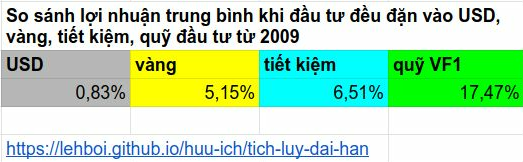
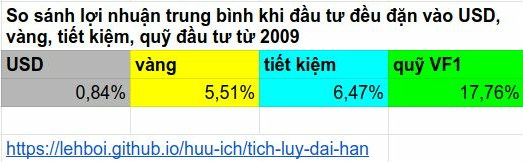
update prices

diff --git a/huu-ich/dau-tu-co-phieu/so-tk-hay-dau-tu.html b/huu-ich/dau-tu-co-phieu/so-tk-hay-dau-tu.html
@@ -2,7 +2,7 @@
 <html amp lang="vi">
 <head>
 <title>Sổ tiết kiệm hay Quỹ đầu tư tốt hơn?</title>
-<meta name="description" content="So sánh tiền lời giữa vàng, USD, sổ tiết kiệm và quỹ đầu tư trong 12 năm qua" />
+<meta name="description" content="So sánh tiền lời giữa vàng, USD, sổ tiết kiệm và quỹ đầu tư trong 13 năm qua" />
 <meta name="keywords" content="hữu ích, tài chính, cá nhân, tiết kiệm, đầu tư, lợi nhuận, IRR">
 <link rel="alternate" href="https://www.lhboi.name.vn/huu-ich/dau-tu-co-phieu/so-tk-hay-dau-tu">
 <link rel="canonical" href="https://lehboi.github.io/huu-ich/dau-tu-co-phieu/so-tk-hay-dau-tu">
@@ -259,26 +259,26 @@ data-ad-slot="5275186684">
   <p>(Đừng mua vàng hay USD để dành, lý do được giải thích trong <a href="#goldusd">phần cuối</a> của bài này.)</p>
   <p>Các nhà kinh tế nói rằng đầu tư dài hạn vào quỹ đầu tư sẽ có lợi hơn gửi tiết kiệm ở ngân hàng. Lý thuyết đó có đúng trong thực tế không, và nhất là có đúng với thị trường Việt Nam không?</p>
   <h2>Kết quả thực tế</h2>
-  <p>Trong bài này, tôi sẽ so sánh kết quả giữa hai phương tiện trên bằng những tính toán trên những số liệu thực tế trong một thời gian dài hơn 12 năm.
-  <br>Thời điểm bắt đầu tính là đầu năm 2009. Từ ngày đó đến ngày 02/12/2021 <!-- Chung!A3 -->
- là hơn 12 năm.</p>
-  <p>Giả sử anh A tích luỹ tiền bằng cách gửi tiết kiệm ở ngân hàng. Bắt đầu từ đầu năm 2009, mỗi bốn tuần (mỗi năm 13 lần ứng với 13 tháng lương) anh A gửi một triệu đồng vào một sổ tiết kiệm kỳ hạn 12 tháng ở Ngân hàng Ngoại thương Việt Nam, khi đáo hạn sổ đó thì nhập lãi vào gốc để gửi tiếp kỳ mới. Số tiền anh A đã gửi vào là 169 <!-- tiết!B2 -->
- triệu đồng. Vào ngày 02/12/2021 <!-- tiết!A2 -->
- tổng giá trị gốc và lãi là <b> 261,139 <!-- tiết!C2 -->
- triệu đồng</b>, tính ra lợi nhuận trung bình của việc tích luỹ này là <b> 6,51%/năm <!-- tiết!C1 -->
+  <p>Trong bài này, tôi sẽ so sánh kết quả giữa hai phương tiện trên bằng những tính toán trên những số liệu thực tế trong một thời gian dài hơn 13 năm.
+  <br>Thời điểm bắt đầu tính là đầu năm 2009. Từ ngày đó đến ngày 30/12/2021 <!-- Chung!A3 -->
+ là hơn 13 năm.</p>
+  <p>Giả sử anh A tích luỹ tiền bằng cách gửi tiết kiệm ở ngân hàng. Bắt đầu từ đầu năm 2009, mỗi bốn tuần (mỗi năm 13 lần ứng với 13 tháng lương) anh A gửi một triệu đồng vào một sổ tiết kiệm kỳ hạn 12 tháng ở Ngân hàng Ngoại thương Việt Nam, khi đáo hạn sổ đó thì nhập lãi vào gốc để gửi tiếp kỳ mới. Số tiền anh A đã gửi vào là 170 <!-- tiết!B2 -->
+ triệu đồng. Vào ngày 30/12/2021 <!-- tiết!A2 -->
+ tổng giá trị gốc và lãi là <b> 262,761 <!-- tiết!C2 -->
+ triệu đồng</b>, tính ra lợi nhuận trung bình của việc tích luỹ này là <b> 6,47%/năm <!-- tiết!C1 -->
 
-</b>. Mặc dù trong 12 năm qua có những lúc lãi suất tiết kiệm lên đến 14%/năm, nhưng do anh A gửi góp theo thời gian nên những khoản tiền gửi trễ sinh ra ít tiền lãi hơn những khoản tiền gửi sớm. Lợi nhuận trung bình đó đang giảm dần vì lãi suất tiết kiệm đã thấp hơn số trung bình đó từ bảy năm nay. Số liệu tính toán <a href="https://docs.google.com/spreadsheets/d/1br9PAhnFj5H2_XtqKL-8MjcCWTU3JP4WGf7guHMdcGo/edit#gid=1998350075" target='_blank'>trong bảng tính này</a>.</p>
+</b>. Mặc dù trong 13 năm qua có những lúc lãi suất tiết kiệm lên đến 14%/năm, nhưng do anh A gửi góp theo thời gian nên những khoản tiền gửi trễ sinh ra ít tiền lãi hơn những khoản tiền gửi sớm. Lợi nhuận trung bình đó đang giảm dần vì lãi suất tiết kiệm đã thấp hơn số trung bình đó từ bảy năm nay. Số liệu tính toán <a href="https://docs.google.com/spreadsheets/d/1br9PAhnFj5H2_XtqKL-8MjcCWTU3JP4WGf7guHMdcGo/edit#gid=1998350075" target='_blank'>trong bảng tính này</a>.</p>
 
-  <p>Giả sử anh B tích luỹ tiền bằng quĩ đầu tư VF1. Bắt đầu từ đầu năm 2009 mỗi bốn tuần anh B gửi một triệu đồng vào quỹ <b>VF1</b>. Số tiền anh B đã gửi vào cũng là 169 <!-- tiết!B2 -->
- triệu đồng như anh A. Vào ngày 02/12/2021 <!-- Chung!A3 -->
- giá trị tài khoản đầu tư của anh B là <b> 593,209 <!-- DCDS!J4 -->
- triệu đồng</b>. Lợi nhuận trung bình của việc tích luỹ này là <span class="red"><b> 18,00%/năm <!-- DCDS!J2 -->
+  <p>Giả sử anh B tích luỹ tiền bằng quĩ đầu tư VF1. Bắt đầu từ đầu năm 2009 mỗi bốn tuần anh B gửi một triệu đồng vào quỹ <b>VF1</b>. Số tiền anh B đã gửi vào cũng là 170 <!-- tiết!B2 -->
+ triệu đồng như anh A. Vào ngày 30/12/2021 <!-- Chung!A3 -->
+ giá trị tài khoản đầu tư của anh B là <b> 591,117 <!-- DCDS!J4 -->
+ triệu đồng</b>. Lợi nhuận trung bình của việc tích luỹ này là <span class="red"><b> 17,76%/năm <!-- DCDS!J2 -->
  </b></span>.</p>
 
   <p>Bảng dưới đây cho biết lợi nhuận trung bình của mọi khoản đầu tư đều đặn vào những quỹ đầu tư trong 10/5/3/2/1 năm qua.</p>
   <div><amp-img alt="Kết quả đầu tư đều đặn" src="/data/VFM.png" height="281" width="565" layout="responsive"></amp-img></a></div>
 
-  <p>Trong thực tế thì số tiền anh A có chắc chắn phải thấp hơn 261,139 <!-- tiết!C2 -->
+  <p>Trong thực tế thì số tiền anh A có chắc chắn phải thấp hơn 262,761 <!-- tiết!C2 -->
  triệu đồng vì:</p>
   <ol>
     <li>Tiền lãi khi đáo hạn sẽ bị làm tròn xuống đến hàng ngàn, và những tiền lẻ dưới chục ngàn hoặc trăm ngàn sẽ không được nhập vào gốc để sinh lời tiếp vì anh A thấy nó lẻ.</li>
@@ -286,7 +286,7 @@ data-ad-slot="5275186684">
     <li>Không dễ để nhớ gửi tiền tiết kiệm đều đặn nhưng lại rất dễ để rút tiền ra dùng khi cần mua sắm iPhone, LED TV, scooter làm cho số tiền bị hao hụt nhiều.</li>
   </ol>
 
-  <p>Ngoài ra, khi gửi ngân hàng kiểu đó thì anh A phải giữ từ 14 đến 169 <!-- tiết!B2 -->
+  <p>Ngoài ra, khi gửi ngân hàng kiểu đó thì anh A phải giữ từ 14 đến 170 <!-- tiết!B2 -->
  sổ tiết kiệm. Có thời gian tôi cũng làm như vậy (online) và tôi cảm thấy vô cùng lúng túng với hàng loạt con số trên màn hình. Trong khi đó đầu tư vào quỹ đầu tư thì mỗi người chỉ cần biết một vài con số.
   <br>Ngân hàng cũng có một loại tiết kiệm mà không tạo ra nhiều sổ, đó là tiết kiệm gửi góp. Tôi khuyên các bạn đừng dùng các loại tiết kiệm gửi góp của các ngân hàng. Mặc dù nó có vẻ giống như các kế hoạch đầu tư ở chỗ góp tiền vào một tài khoản, nhưng các ngân hàng không chuyên quản lý sổ tiết kiệm dài hạn và họ cũng không thích việc đó nên lãi suất dạng đó thấp hơn lãi suất 12 tháng. Tôi đã có một kinh nghiệm không vui với loại tiết kiệm gửi góp đó, sẽ kể lại trong một trang khác.</p>
 
@@ -299,10 +299,10 @@ data-ad-slot="5275186684">
   <p>Các con số lãi suất ở trên là lãi kép nên thời gian càng dài thì kết quả càng lớn. Ví dụ với lãi suất như trên, gửi mỗi bốn tuần một triệu đồng sau 30 năm sẽ từ 390 triệu đồng:</p>
   <span class="red">
   <ul>
-    <li>được khoảng 1,010 <!-- So!A4 -->
+    <li>được khoảng 1,009 <!-- So!A4 -->
  tỉ đồng nếu gửi ngân hàng</li>
-    <li>được khoảng 11,250 <!-- So!A7 -->
- tỉ đồng nếu gửi quỹ đầu tư, <b>bằng 11,13 <!-- So!A8 -->
+    <li>được khoảng 10,704 <!-- So!A7 -->
+ tỉ đồng nếu gửi quỹ đầu tư, <b>bằng 10,60 <!-- So!A8 -->
  lần gửi ngân hàng</b></li>
   </ul>
   </span>
@@ -317,7 +317,7 @@ data-ad-slot="5275186684">
   <p>Quỹ đầu tư là gì mà nó sinh lời nhiều hơn gửi tiết kiệm ở ngân hàng?
   <br>Mời bạn xem bài giải thích về <a href="quy-dau-tu">quỹ đầu tư</a>.</p>
 
-  <p>Gửi mỗi bốn tuần một triệu đồng trong hơn 12 năm thì lời như vậy, nhưng nếu chị D có 50 triệu đồng hay năm tỉ đồng thì gửi vào quỹ đầu tư theo cách nào để có lời?
+  <p>Gửi mỗi bốn tuần một triệu đồng trong hơn 13 năm thì lời như vậy, nhưng nếu chị D có 50 triệu đồng hay năm tỉ đồng thì gửi vào quỹ đầu tư theo cách nào để có lời?
   <br>Chị D nên chia số tiền đó ra làm nhiều phần bằng nhau để gửi vào quỹ đầu tư một cách đều đặn (mỗi tháng một phần) trong 3-6 tháng liên tiếp, rồi để yên đó một thời gian đủ dài (hơn năm năm) để nó sinh lời.</p>
 
   <p>Kết quả của quỹ đầu tư cao hơn sổ tiết kiệm có vài phần trăm mỗi năm vì lãi suất tiết kiệm (và lãi suất cho vay) ở Việt Nam quá cao. Ở Singapore, gửi tiết kiệm kỳ hạn ba năm lãi 0,65%/năm còn quỹ đầu tư cổ phiếu thì được khoảng 7,5%/năm sau 10 năm, chênh lệch gấp 10 lần. Hy vọng kinh tế Việt Nam sẽ thay đổi theo hướng đó: lãi suất ngân hàng giảm xuống để giảm chi phí cho các doanh nghiệp và người đi vay.</p>
@@ -325,15 +325,15 @@ data-ad-slot="5275186684">
 
 
   <h2 id="goldusd">Tiết kiệm bằng USD hoặc vàng có tốt hơn không?</h2>
-  <p>Tôi giả định rằng chị U mua 100 USD mỗi bốn tuần từ đầu năm 2009 đến nay chị U có 16.900 <!-- Gold!J3 -->
- USD tương đương 382,447 <!-- Gold!L4 -->
- triệu đồng và chị U đã bỏ ra hết 363,155 <!-- Gold!K3 -->
- triệu đồng, tính ra lợi nhuận trung bình của việc tích luỹ này là 0,83%/năm <!-- Gold!L2 -->
+  <p>Tôi giả định rằng chị U mua 100 USD mỗi bốn tuần từ đầu năm 2009 đến nay chị U có 17.000 <!-- Gold!J3 -->
+ USD tương đương 384,880 <!-- Gold!L4 -->
+ triệu đồng và chị U đã bỏ ra hết 365,419 <!-- Gold!K3 -->
+ triệu đồng, tính ra lợi nhuận trung bình của việc tích luỹ này là 0,84%/năm <!-- Gold!L2 -->
 .
-  <br>Lại giả định tiếp, từ đầu năm 2009 đến nay mỗi bốn tuần chị G dùng 100 USD mua một số gram vàng lẻ đến một phần triệu gram. Đến nay chị G có 392,982 <!-- Gold!I4 -->
- gram vàng, trị giá 22.301,74 <!-- Gold!J4 -->
- USD. Như vậy với cùng số tiền bỏ ra như chị U, nhưng chị G thu lại được nhiều hơn 31,96% <!-- Gold!L3 -->
- và  lợi nhuận trung bình của việc tích luỹ này là 5,15%/năm <!-- Gold!K2 -->
+  <br>Lại giả định tiếp, từ đầu năm 2009 đến nay mỗi bốn tuần chị G dùng 100 USD mua một số gram vàng lẻ đến một phần triệu gram. Đến nay chị G có 394,705 <!-- Gold!I4 -->
+ gram vàng, trị giá 22.916,55 <!-- Gold!J4 -->
+ USD. Như vậy với cùng số tiền bỏ ra như chị U, nhưng chị G thu lại được nhiều hơn 34,80% <!-- Gold!L3 -->
+ và  lợi nhuận trung bình của việc tích luỹ này là 5,51%/năm <!-- Gold!K2 -->
 , thấp hơn gửi tiết kiệm VND và thấp hơn tích luỹ bằng quỹ đầu tư. Lợi nhuận trung bình này có lẽ cũng tương đương mức trượt giá trung bình trong cùng thời gian, điều đó cho thấy tích luỹ bằng vàng không có lời.
   <br>Các số liệu về tỷ giá USD-VND và giá vàng từ đầu năm 2009 đến nay được lấy từ website Vietcombank.com.vn và www.gold.org.</p>
   <p>Bảng dưới đây so sánh lợi nhuận trung bình của việc đầu tư đều đặn vào các kênh từ năm 2009.</p>
